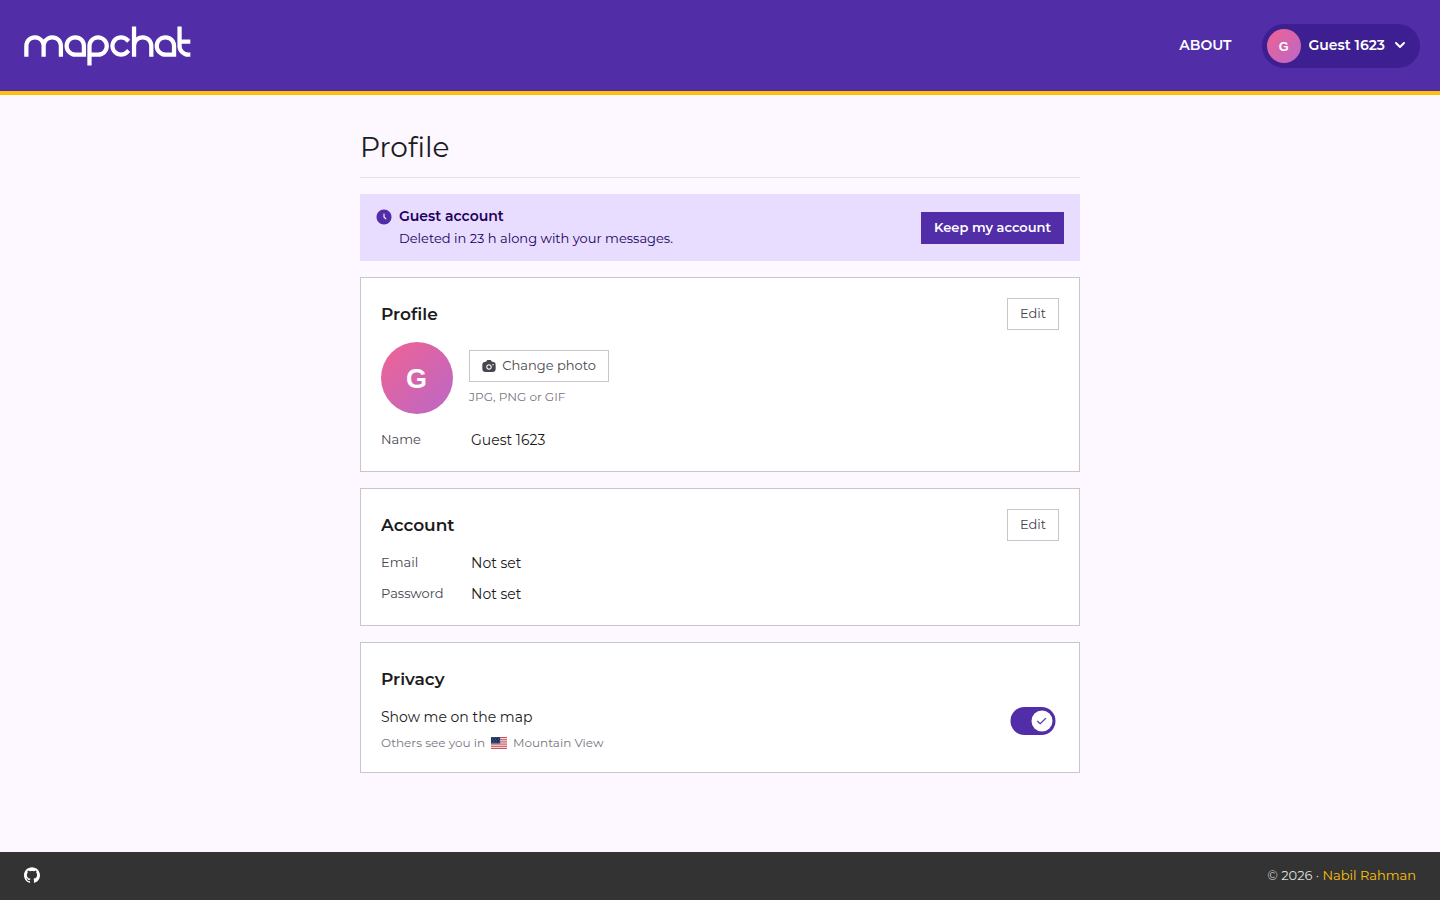
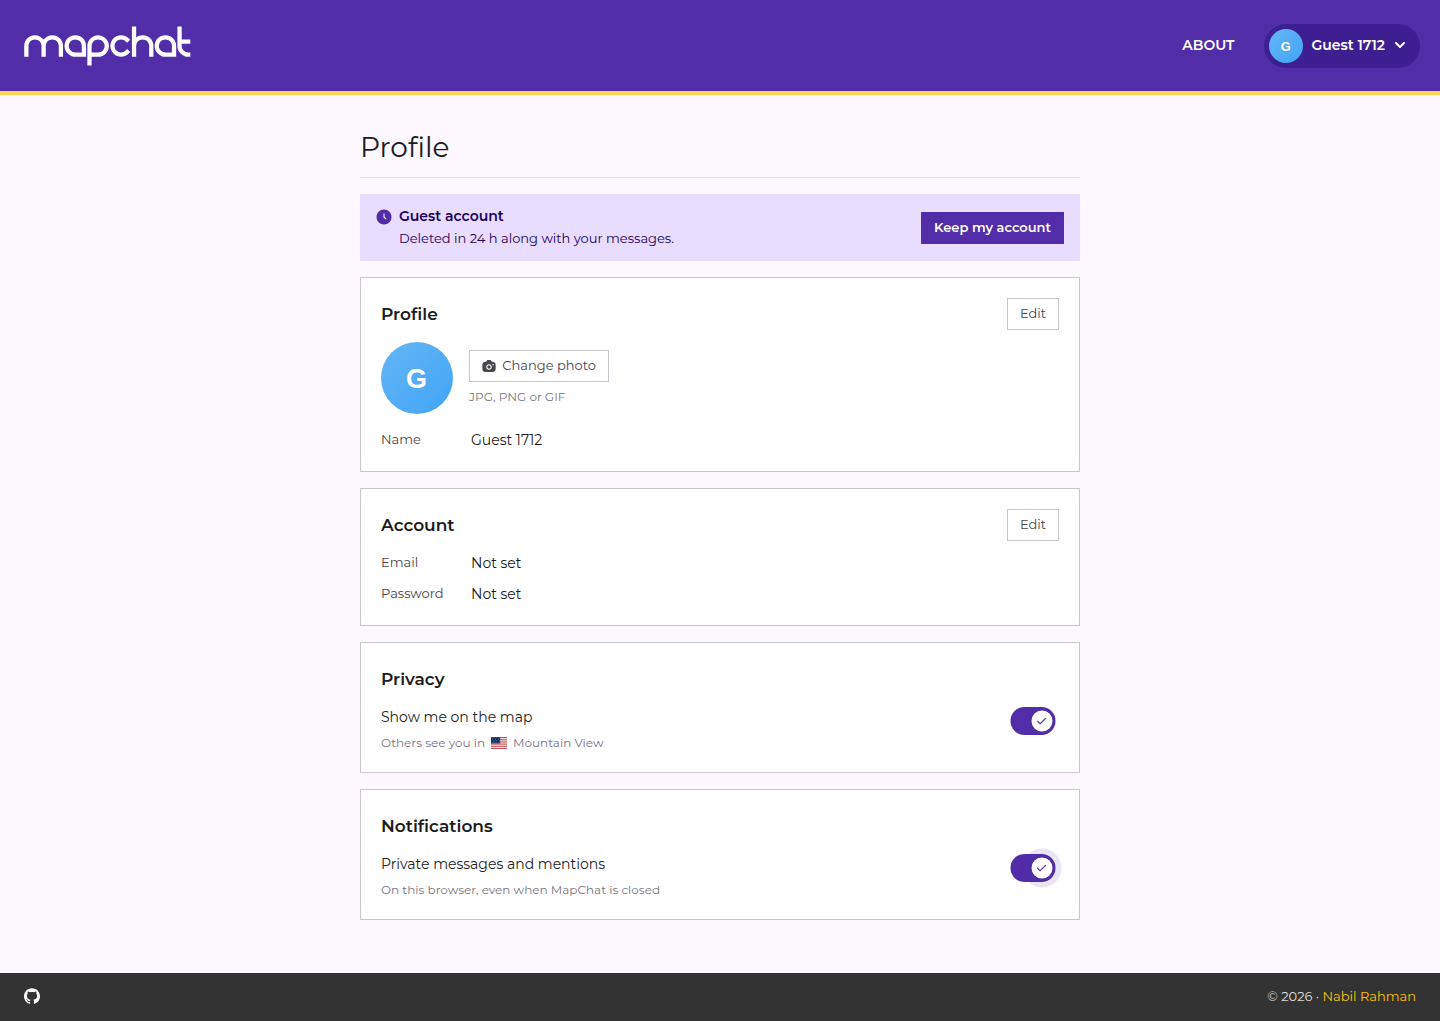
Describe notifications and chat headers in the README and About page
Adds the notifications to the features, how they're sent, the VAPID settings and the new files, with new screenshots of the chat, a private chat and the profile.

diff --git a/App/Views/About/index.html b/App/Views/About/index.html
@@ -43,6 +43,7 @@
                 <li>Chat with everyone who is signed in, in one shared room.</li>
                 <li>Click someone's name to chat privately, and see when they're typing to you.</li>
                 <li>Type @ to mention someone. Mentions of you are highlighted.</li>
+                <li>Get notified of private messages and mentions, even with MapChat closed. Turn it on in the chat or on your profile.</li>
             </ul>
         </section>
 
@@ -88,6 +89,7 @@
             <ul class="about-list">
                 <li>A WebSocket for each open chat, on amphp, so messages, who's online and who's typing arrive at once.</li>
                 <li>If it can't connect, the chat checks every second instead.</li>
+                <li>Notifications by Web Push, sent from the server and shown by a service worker, so they arrive with the page closed.</li>
             </ul>
         </section>
 
@@ -112,6 +114,7 @@
             <ul class="about-list">
                 <li>Your location comes from your IP address, so the map only knows roughly which city you are in. It never uses GPS, and you can hide your pin and city from your profile.</li>
                 <li>Anything you write in Everyone is visible to everyone signed in. Private chats are only shown to the two of you.</li>
+                <li>Notifications are set per browser. Logging out stops them on that browser.</li>
                 <li>MapChat and some people on the map are AI. Groq writes their replies from the chat, and doesn't train its AI on it.</li>
                 <li>This is a portfolio project, so please don't share anything private here.</li>
             </ul>

diff --git a/README.md b/README.md
@@ -45,9 +45,9 @@ https://github.com/user-attachments/assets/06384a18-cd12-4e27-8cf0-530ab2463569
 
 <sub>A quick tour of MapChat.</sub>
 
-| The chat room |
-|---|
-| ![The chat room with the map of who is chatting from where](docs/images/mapchat-app.png) |
+| The chat room | A private chat |
+|---|---|
+| ![The chat room with the map of who is chatting from where](docs/images/mapchat-app.png) | ![A private chat with Aiko, showing her city and local time](docs/images/mapchat-private.png) |
 
 | Log in, or try it as a guest | Profile |
 |---|---|
@@ -61,7 +61,12 @@ https://github.com/user-attachments/assets/06384a18-cd12-4e27-8cf0-530ab2463569
 
 - One open chat room for everyone signed in, live over a WebSocket.
 - Private chats in tabs of their own, with unread counts and "Typing...".
+  Each opens with a header showing who you're talking to, and their city and
+  local time.
 - @mentions: type @ to pick someone; mentions show as chips.
+- Notifications for private messages and @mentions, even with MapChat closed
+  (Web Push). Turn them on from the chat or your profile; they're per
+  browser.
 - A map with a pin for each person online, at city level, never an exact
   location, with their local time and a sun or moon.
 - Hover someone, or a message's city, to point out their pin; click the city
@@ -117,6 +122,11 @@ on what's sent to its API. The code is in `App/Models/Bot.php`.
   jQuery, and axios for requests to the server.
 - **Live chat:** one WebSocket per open chat page, served by a PHP process of
   its own on [amphp](https://amphp.org); see [Live chat](#live-chat).
+- **Notifications:** while a chat page is in view it shows them itself; with
+  MapChat closed they come by Web Push, sent by the chat worker with
+  [minishlink/web-push](https://github.com/web-push-libs/web-push-php) and
+  shown by a service worker, `public/sw.js`. Signed with VAPID keys; without
+  them, only an open page notifies.
 - **Icons:** the Bold weight of the [Solar icon set](https://www.figma.com/community/file/1166831539721848736)
   by 480 Design, under [CC BY 4.0](https://creativecommons.org/licenses/by/4.0/),
   in one sprite, `public/icons.svg`. The GitHub mark is from Simple Icons.
@@ -183,7 +193,8 @@ docker compose down -v
 ### Tests
 
 The tests cover the router, who can see which chat messages, mentions and
-nicknames, and when MapChat and the demo people answer. The chat socket's
+nicknames, whose browsers a Web Push goes to, and when MapChat and the demo
+people answer. The chat socket's
 tests start it as its own process and connect to it as pages do: private
 messages reaching only the pair, the open room reaching everyone, sending
 again after a lost answer, catching up after a restart with more than a page
@@ -215,6 +226,8 @@ explanations. The main ones:
 | `MAPCHAT_MODEL` | Optional. The Groq model they write with. Default `openai/gpt-oss-120b` |
 | `CLOUDINARY_CLOUD_NAME`, `CLOUDINARY_UPLOAD_PRESET` | Where avatar uploads go |
 | `CHAT_SOCKET_PORT` | Optional. The port the chat socket listens on inside the container, behind Apache's `/ws`. Default `8090` |
+| `VAPID_PUBLIC_KEY`, `VAPID_PRIVATE_KEY` | Optional. The key pair for Web Push, so notifications reach people with MapChat closed. Make it once and keep it ([docs/deploy.md](docs/deploy.md)) |
+| `VAPID_SUBJECT` | Optional. Who push services can contact about the site, `https://` or `mailto:`. Default `APP_URL` |
 
 ## Deploy for free
 
@@ -231,13 +244,15 @@ App/Controllers/ One class per page or action
 App/Models/      Database access for users, chats and locations, and Bot:
                  when MapChat and the demo people answer, and what they read
 App/Mention.php  @mentions, and how each person's name is shown
+App/Push.php     Web Push: whose browsers each new message goes to, and sending it
 App/ChatSocket/  The live chat: who's let in (Handshake), and what each page
                  gets (Hub)
 bin/             chat-socket.php and chat-worker.php, run by docker/start.sh
 App/Views/       Twig templates
 public/          Web root: index.php, CSS, JavaScript (messages.js talks to the
-                 chat socket, mentions.js is the @ list and chips), images and
-                 icons.svg
+                 chat socket, mentions.js is the @ list and chips,
+                 notifications.js turns notifications on), sw.js (shows Web
+                 Push notifications), images and icons.svg
 database/        init.sql (schema and welcome messages), demo.sql (optional
                  sample people), demo-chat.php (what they say each day),
                  migrate.php (adds columns an older database is missing, run
